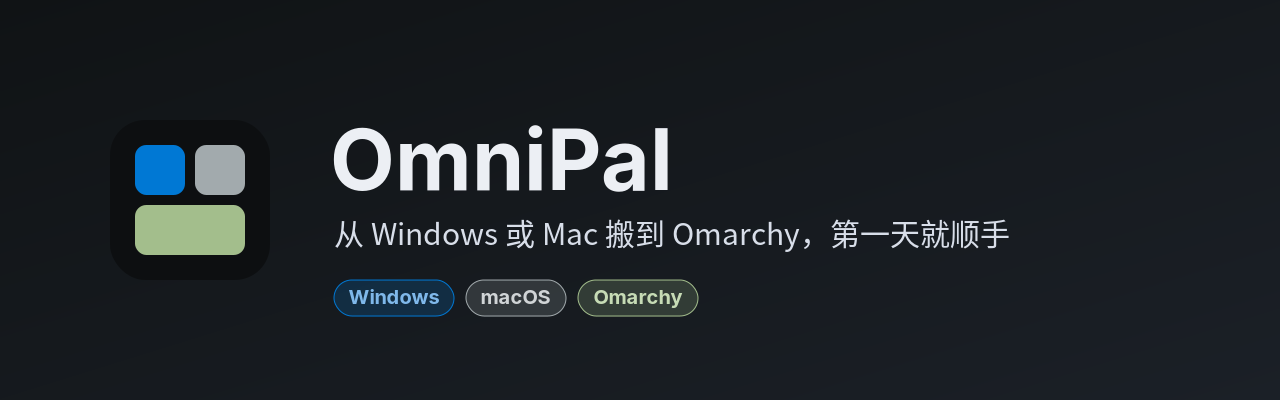
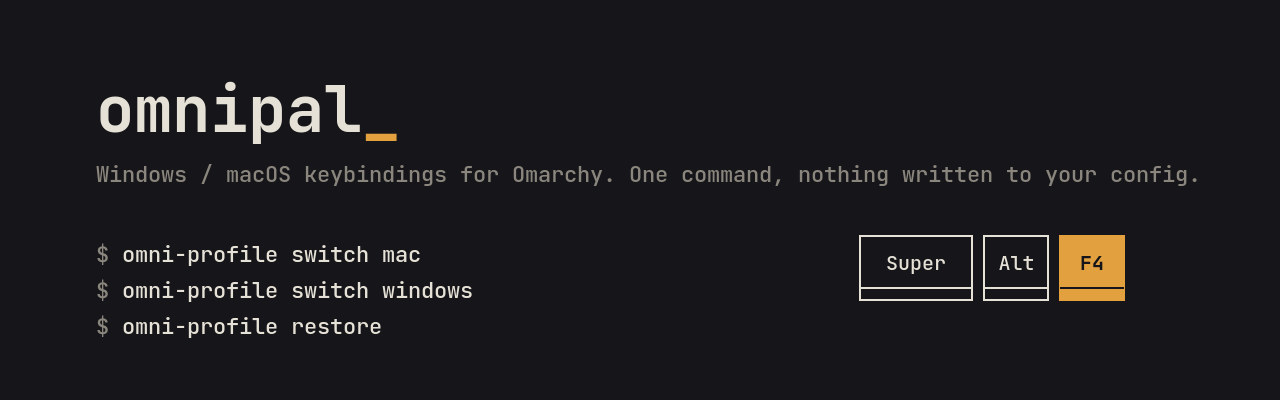
fix(uninstall): remove empty dirs created by install; clearer hyprctl error; add FAQ; refresh brand assets

Changed region(s): [[0.0625, 0.21, 0.9375, 0.75], [0.0625, 0.69, 0.5625, 0.84]]

diff --git a/docs/FAQ.md b/docs/FAQ.md
@@ -1,0 +1,24 @@
+# FAQ
+
+## OmniPal 会改我的配置文件吗？
+不会改你现有的配置。切换模式只在 Hyprland 内存里生效，不碰 hyprland.conf 和 shell.json。
+安装时会在 ~/.config/omarchy/plugins/ 建插件软链接，在 ~/.local/bin/ 放 omni-profile，并装一个 systemd 用户服务。
+
+## 怎么回到 Omarchy 原生键位？
+切回 omarchy 模式即可。
+
+## 怎么卸载？
+运行 scripts/uninstall.sh，安装时加的文件都会被删除。
+
+## 和 Toshy、keyd 有什么区别？
+Toshy 和 keyd 在键盘层做重映射，覆盖面广，但需要额外的依赖或手写配置。
+OmniPal 只面向 Omarchy，直接用 Hyprland 自己的绑定，没有第三方依赖，另外带窗口吸附和快捷键速查表。
+
+## 自定义 profile 的命令里能用引号吗？
+可以，v1.5.1 起命令会被正确转义。
+
+## 怎么跑测试？
+在仓库根目录运行 `python3 -m unittest discover -s tests`，不需要 pytest，也不需要 Hyprland（没有 `hyprctl` 时会自动用测试替身）。
+
+## 出问题了怎么办？
+请到 GitHub 提 issue，附上 Omarchy 版本和你切换的模式。
